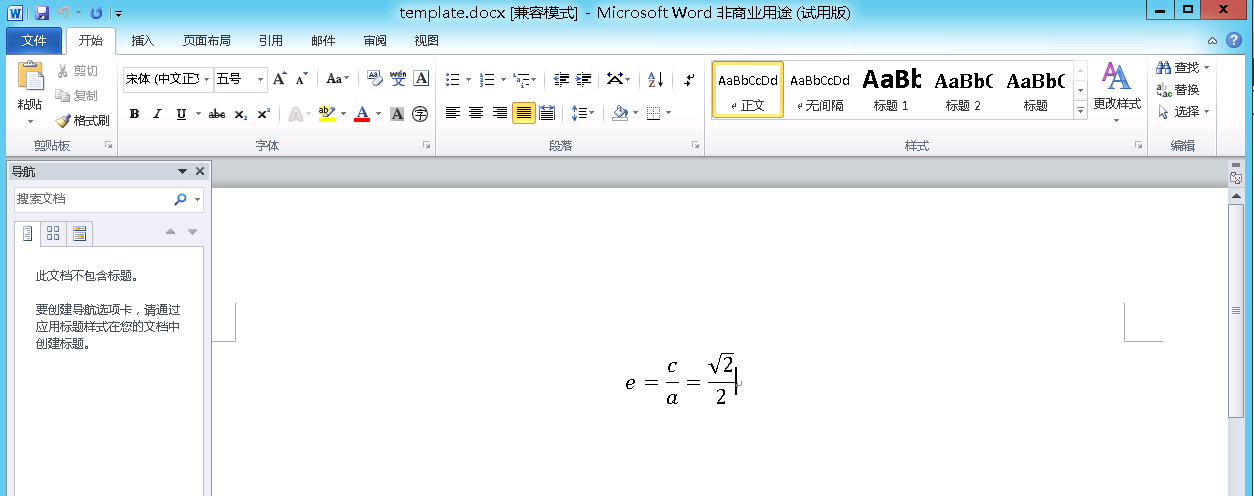
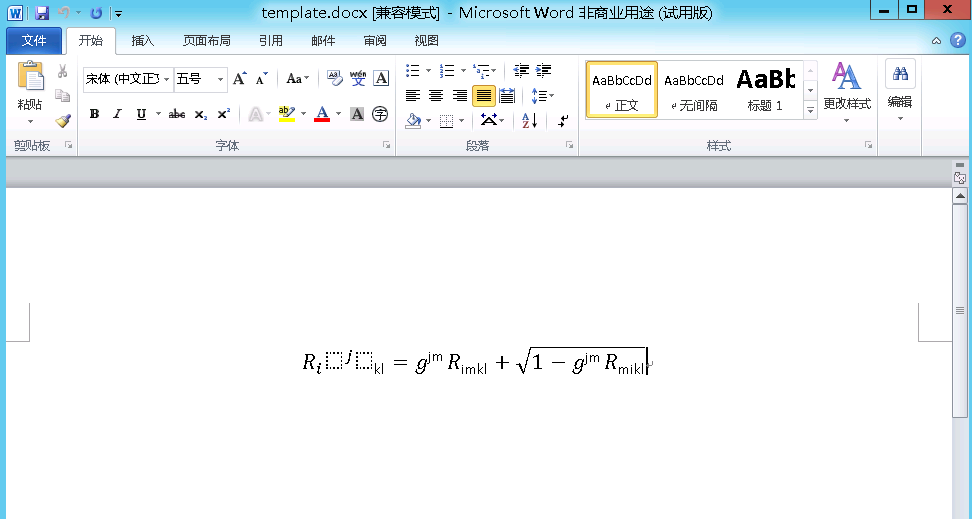
MATHML to OMML to Word

diff --git a/README.md b/README.md
@@ -55,3 +55,5 @@
 
 具体的实现过程参考了[https://stackoverflow.com/questions/10993621/openxml-sdk-and-mathml](https://stackoverflow.com/questions/10993621/openxml-sdk-and-mathml)
 
+我们还需要由微软开发的[Open-XML-SDK](https://github.com/OfficeDev/Open-XML-SDK)来提供这些操作，你可以到微软的官网[下载](https://www.microsoft.com/en-us/search/result.aspx?q=open+xml+sdk),当然，我这里也上传到了Github上，你可以在根目录下找到该安装包文件OpenXMLSDKV25.msi。
+
